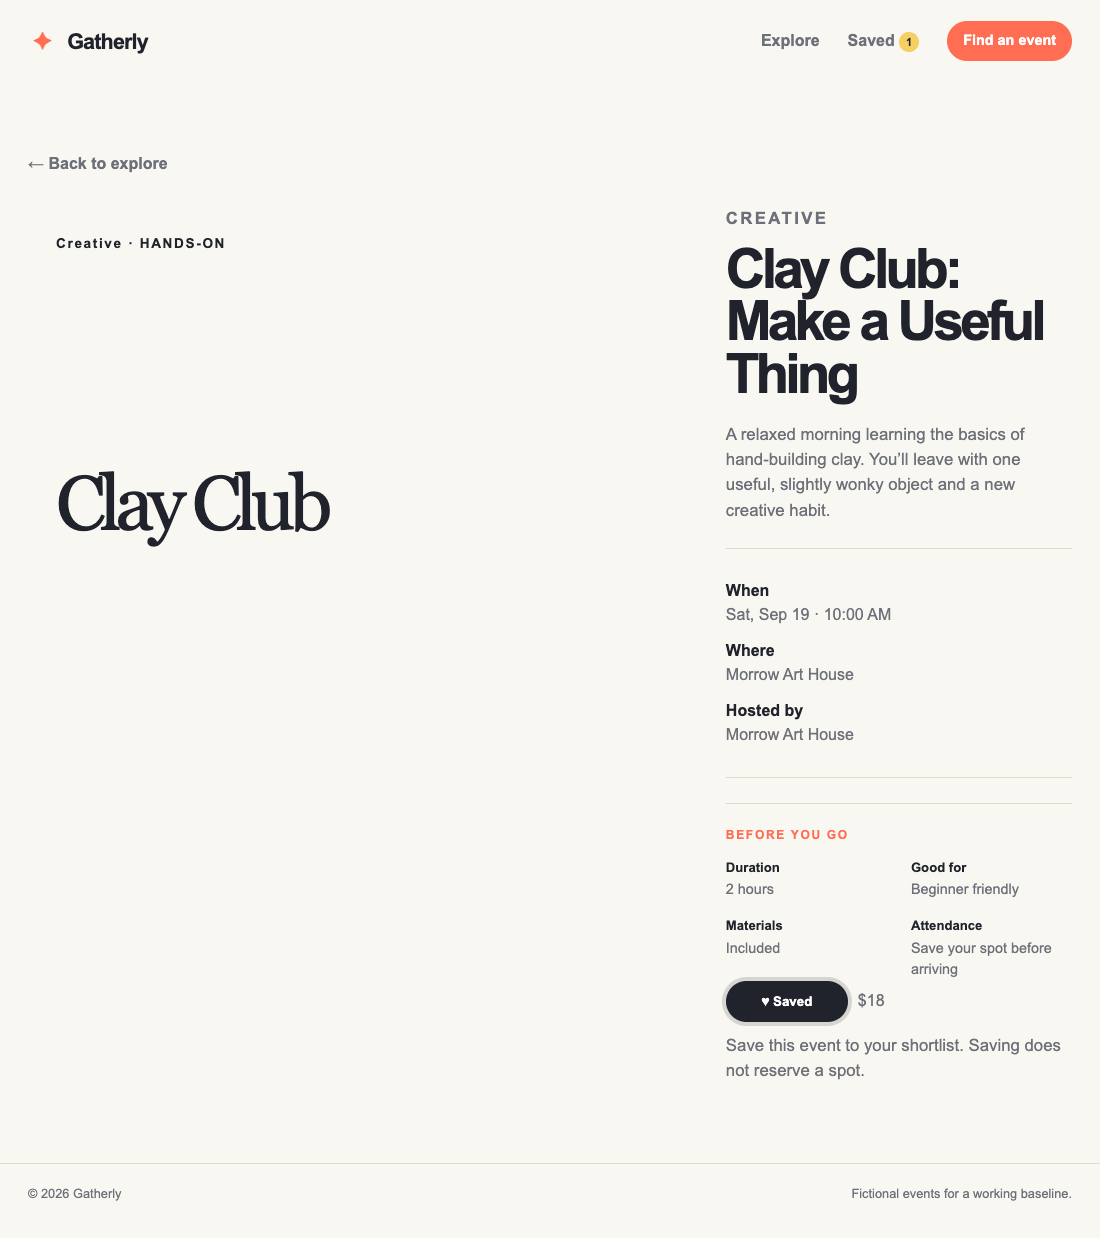
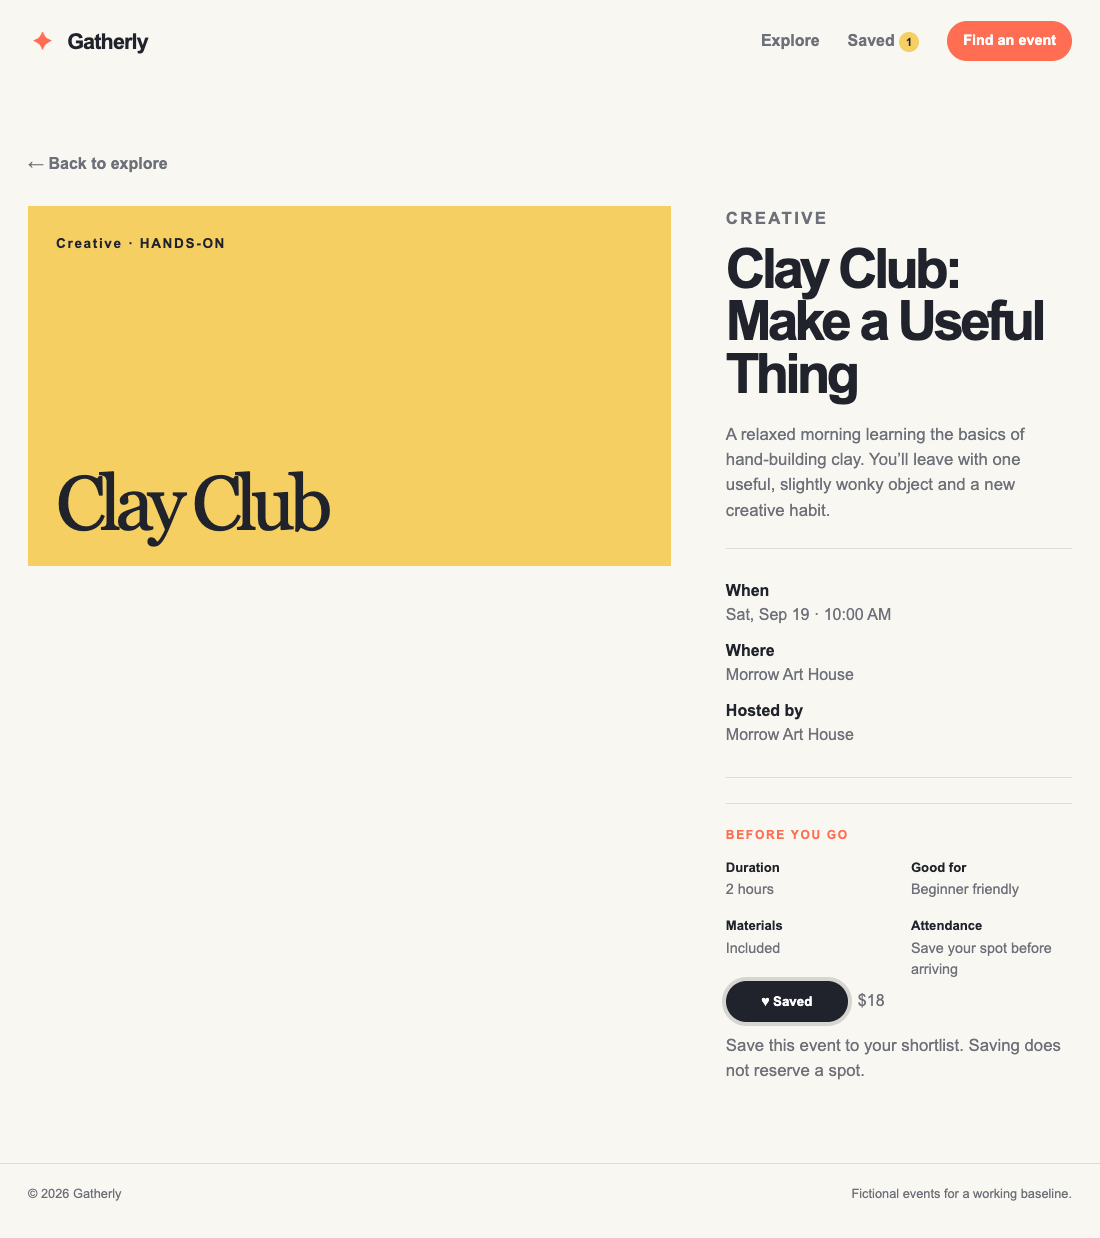
Keep detail artwork and event labels readable on mobile and tablet

Changed region(s): [[0.0, 0.1535, 0.6182, 0.4604]]

diff --git a/event-discovery-app/styles.css b/event-discovery-app/styles.css
@@ -46,3 +46,17 @@
   .detail-image{height:260px;margin-bottom:28px}
   .detail-actions{position:sticky;bottom:12px;z-index:10;padding:12px;background:var(--cream);border:1px solid var(--line);border-radius:14px;box-shadow:var(--shadow)}
 }
+
+/* Keep catalog artwork and detail content readable at intermediate widths. */
+.detail-image.coral{background:var(--coral);color:#fff}
+.detail-image.yellow{background:var(--yellow)}
+.detail-image.blue{background:var(--blue)}
+.detail-image.lavender{background:#d8cbe9}
+.event-info h3 a{color:inherit;text-decoration:none}
+.event-info h3 a:hover{text-decoration:underline}
+.event-list .event-image{flex-direction:column;gap:16px}
+.event-list .event-image span:last-child{align-self:flex-start;text-align:left;max-width:none}
+@media(min-width:761px) and (max-width:960px){
+  .detail-layout{grid-template-columns:1fr;gap:28px}
+  .detail-image{height:300px}
+}
